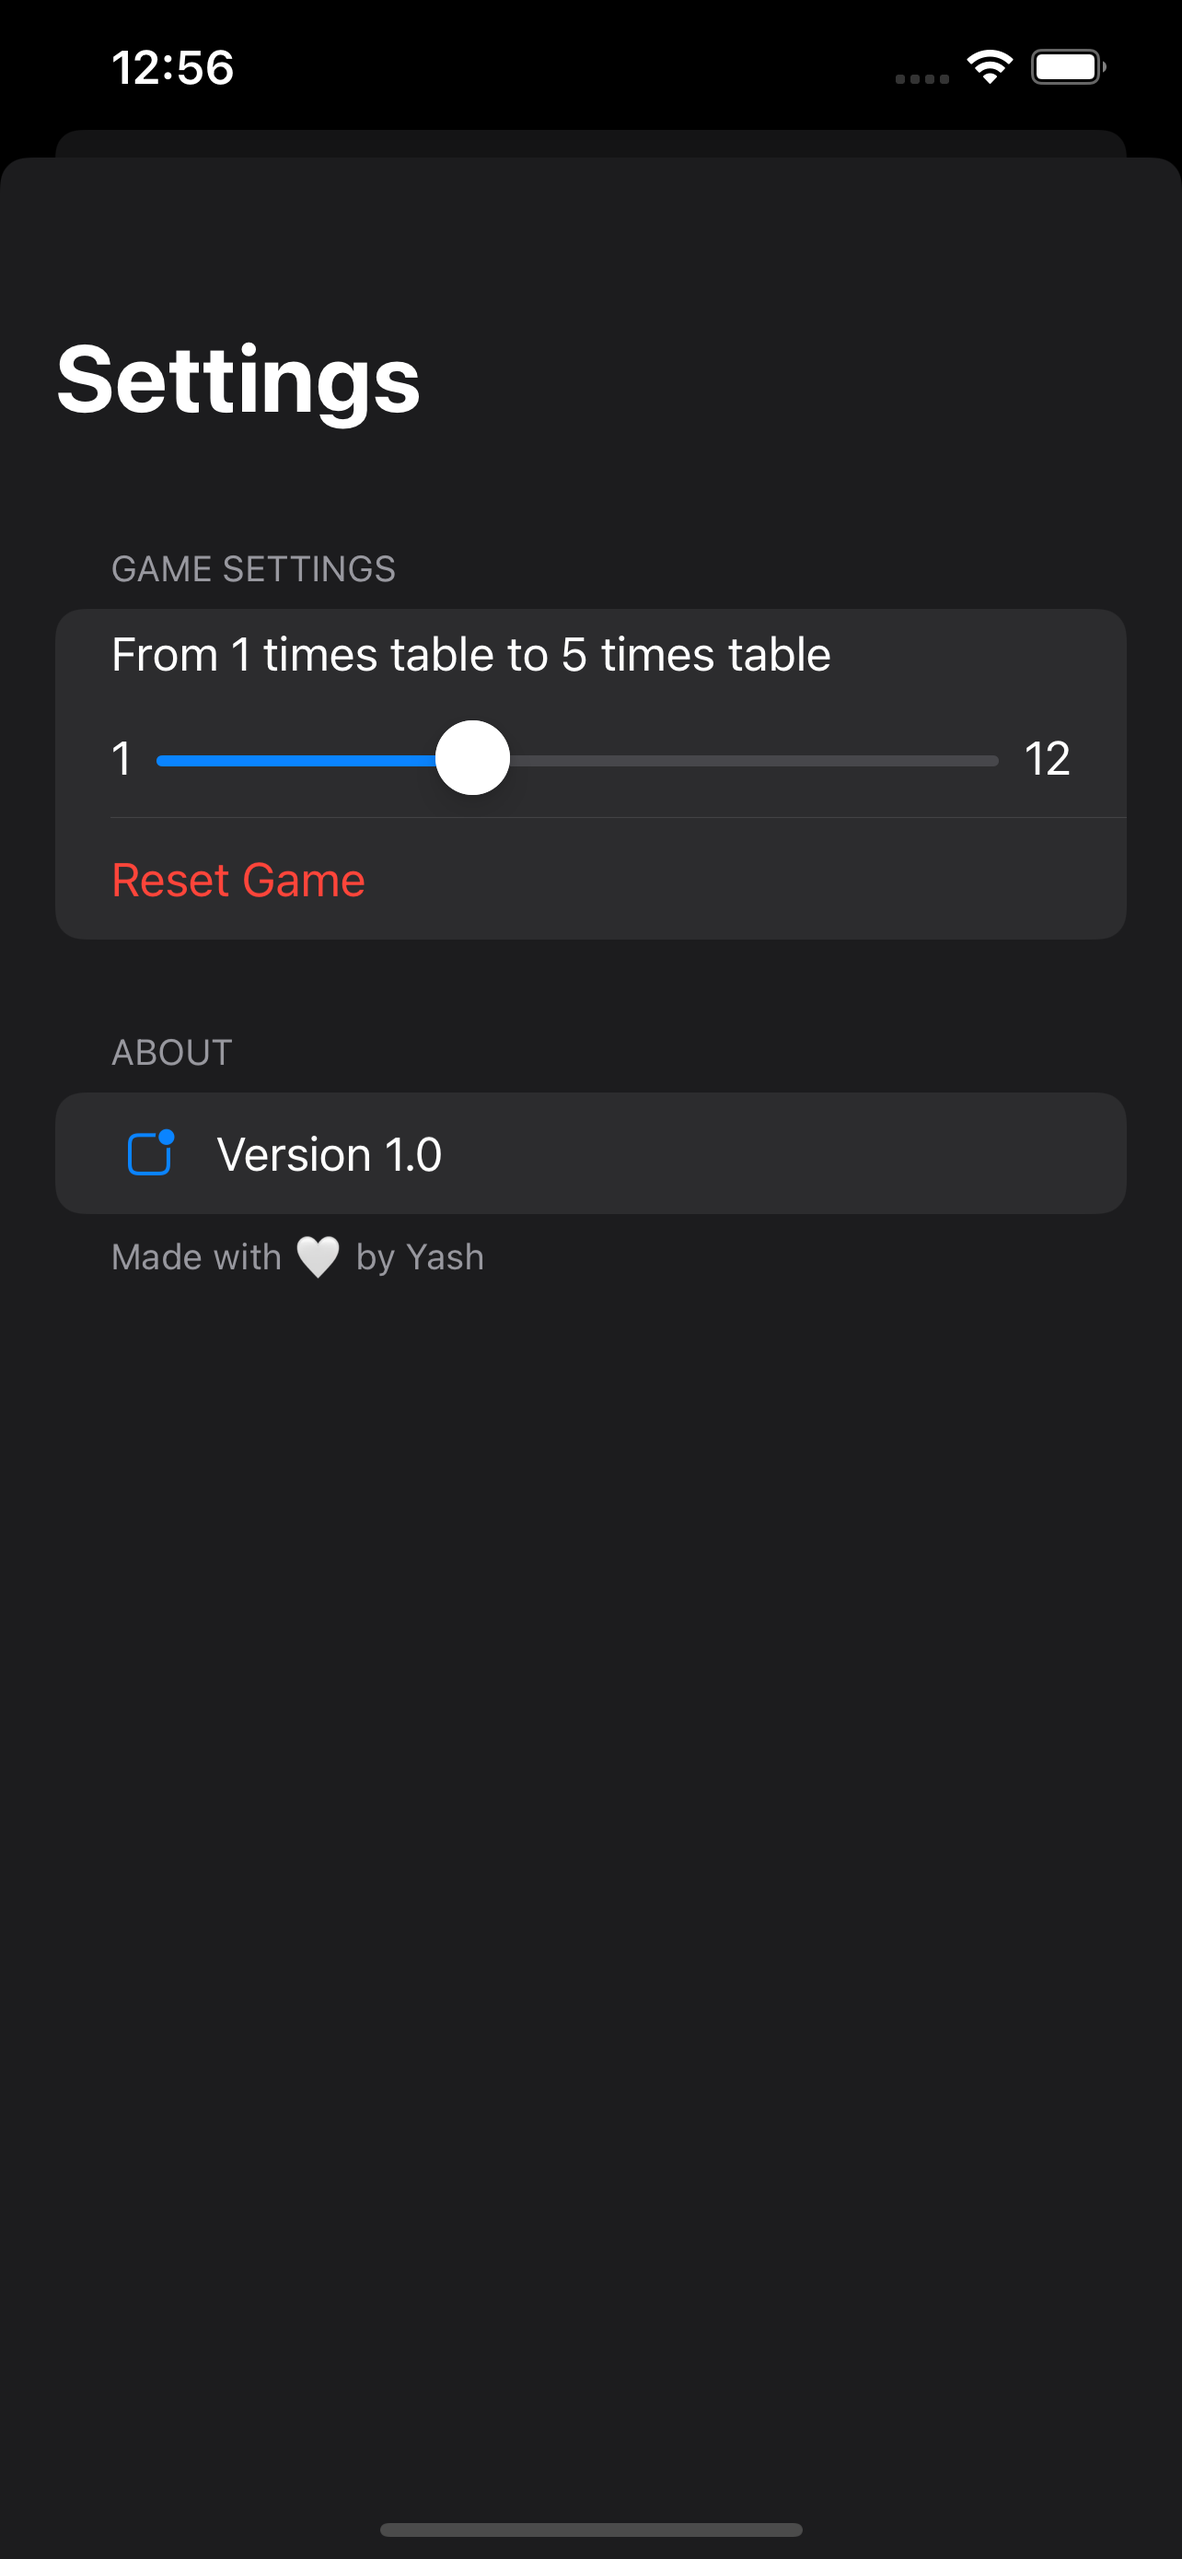
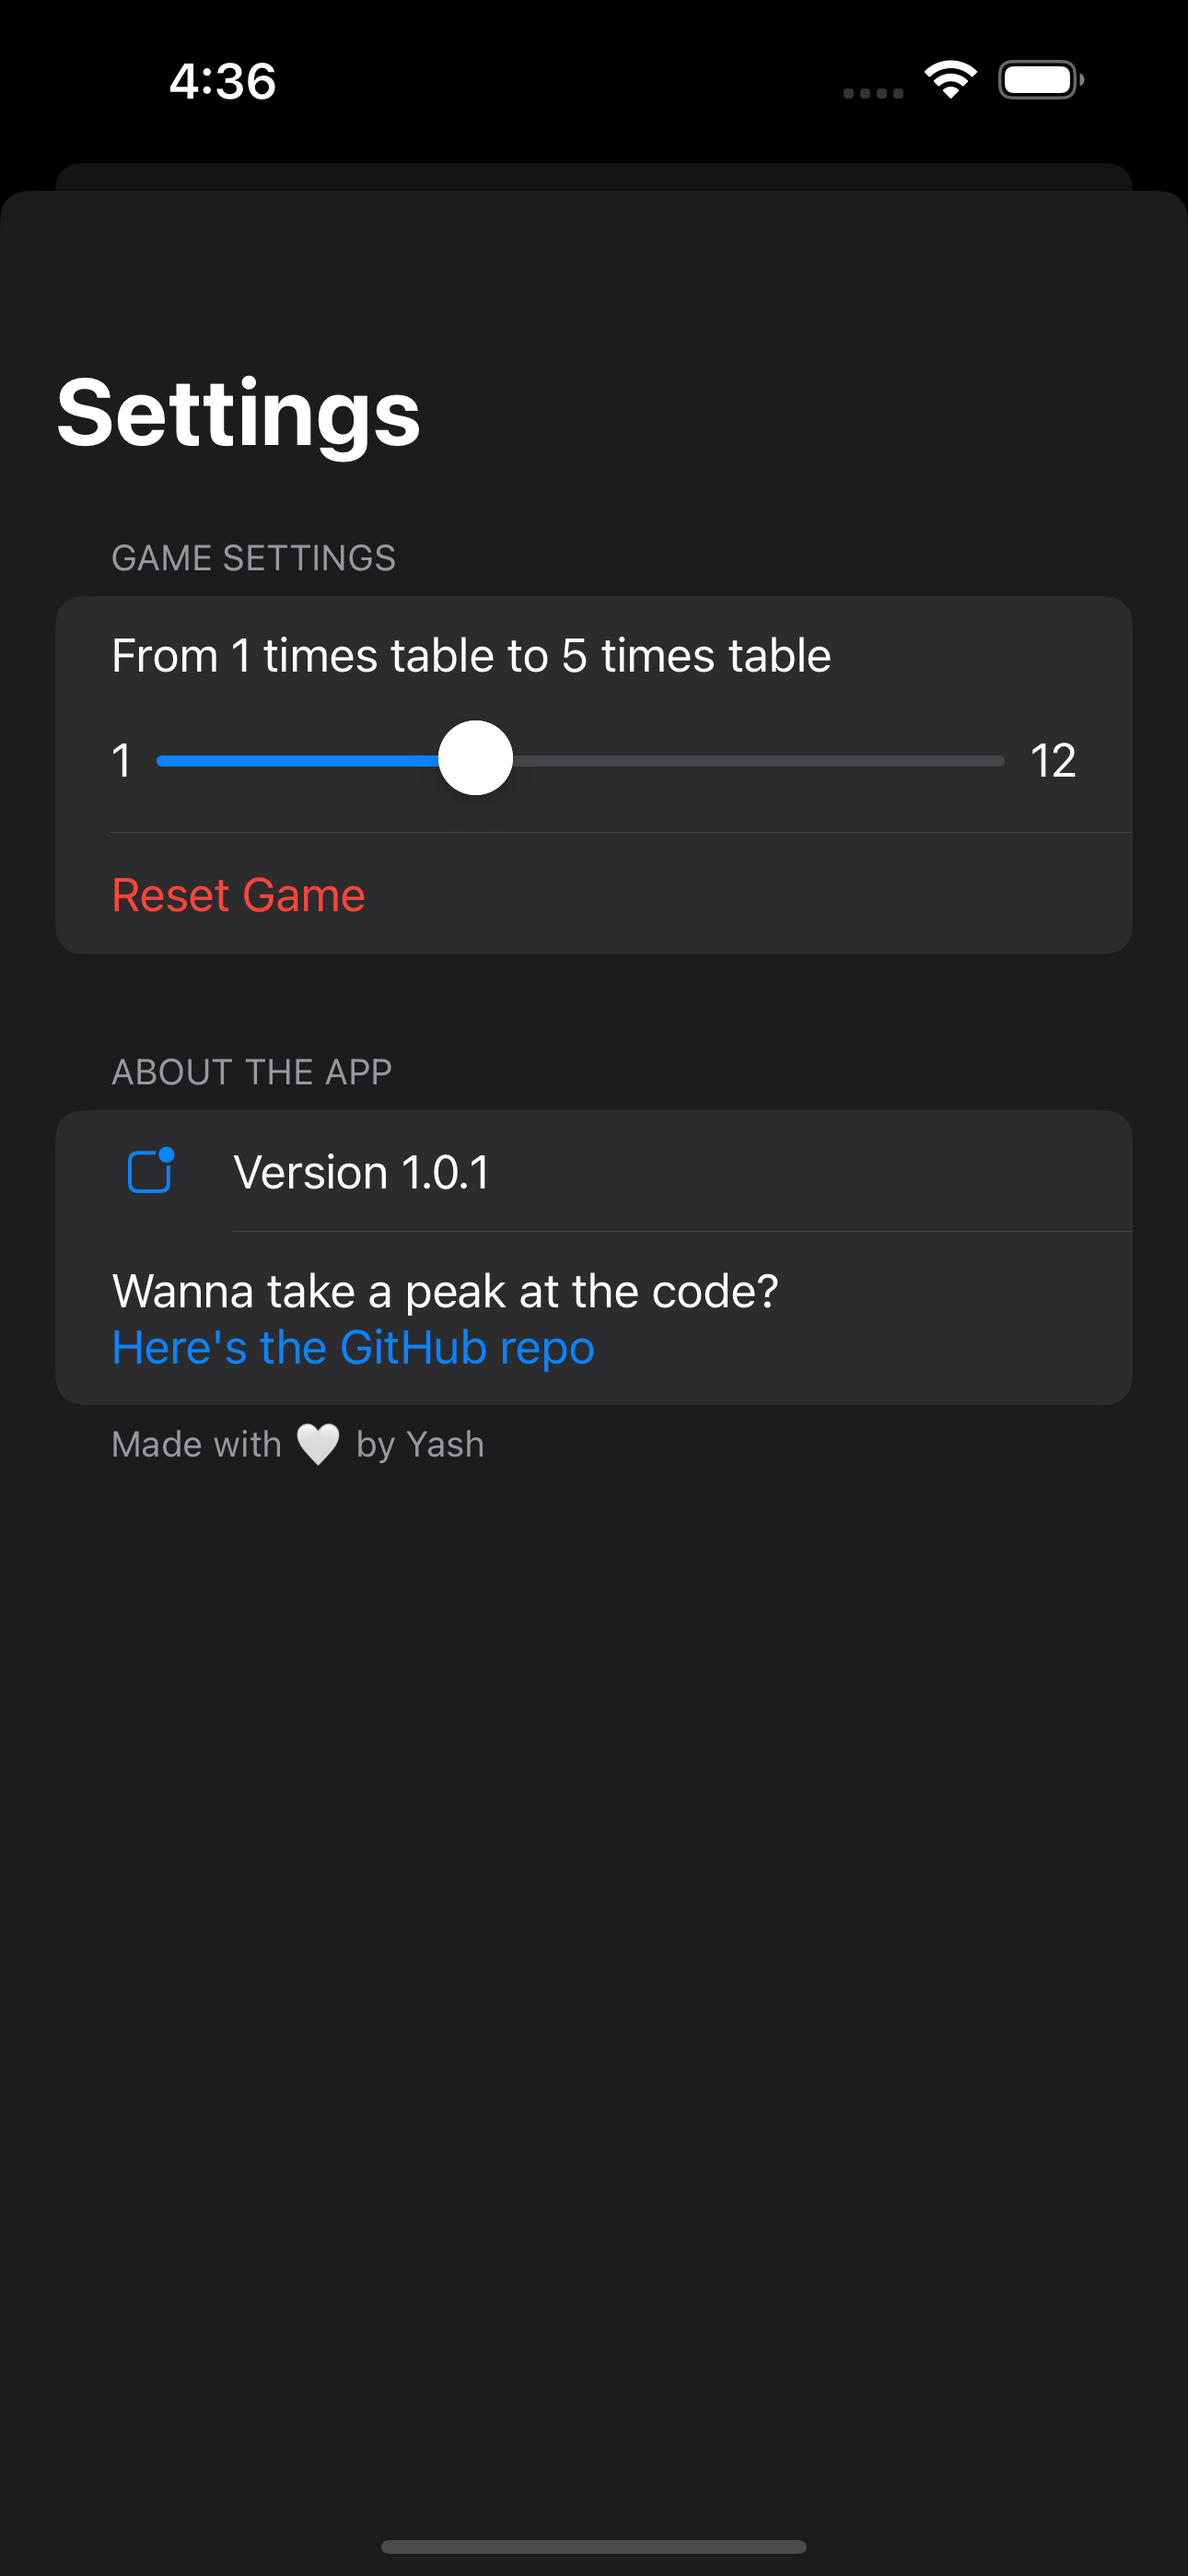
Replace `Constants.swift` with `Bundle+AppInfo.swift` to get App Version and Build Number for `SettingsView` and `AppReviewRequest.swift`

diff --git a/TimesTables/Screens/SettingsView.swift b/TimesTables/Screens/SettingsView.swift
@@ -8,49 +8,67 @@
 import SwiftUI
 
 struct SettingsView: View {
+	private let linksUrl = URL(string: "https://linktr.ee/YSBoomOfficial")!
+	private let repoURL = URL(string: "https://github.com/ysBoomOfficial/times-Tables/")!
+
 	// swiftlint:disable:next identifier_name
 	@ObservedObject var vm: TimesTablesViewModel
 
 	var body: some View {
 		NavigationView {
 			List {
-				Section {
-					VStack(alignment: .leading) {
-						Text("From 1 times table to \(vm.maxTimesTableNum, format: .number) times table")
-						Slider(
-							value: $vm.maxTimesTableNum,
-							in: 1...12, step: 1) {
-								Text("What range of times tables do you want to practice?")
-							} minimumValueLabel: {
-								Text(1, format: .number)
-							} maximumValueLabel: {
-								Text(12, format: .number)
-							} onEditingChanged: { _ in
-								vm.askQuestion()
-							}
-					}
+				gameSettingsSection
 
-					Button(
-						"Reset Game",
-						role: .destructive,
-						action: vm.reset
-					)
-				} header: {
-					Text("Game Settings")
-				}
-
-				acboutSection
+				aboutSection
 			}
 			.listStyle(.insetGrouped)
 			.navigationTitle("Settings")
 		}
 	}
 
-	private var acboutSection: some View {
+	private var gameSettingsSection: some View {
 		Section {
-			Label("Version \(Constants.appVersion)", systemImage: "app.badge")
+			VStack(alignment: .leading) {
+				Text("From 1 times table to \(vm.maxTimesTableNum, format: .number) times table")
+				Slider(
+					value: $vm.maxTimesTableNum,
+					in: 1...12, step: 1) {
+						Text("What range of times tables do you want to practice?")
+					} minimumValueLabel: {
+						Text(1, format: .number)
+					} maximumValueLabel: {
+						Text(12, format: .number)
+					} onEditingChanged: { _ in
+						vm.askQuestion()
+					}
+			}
+
+			Button(
+				"Reset Game",
+				role: .destructive,
+				action: vm.reset
+			)
 		} header: {
-			Text("About")
+			Text("Game Settings")
+		}
+	}
+
+	private var aboutSection: some View {
+		Section {
+			Label(
+				"Version \(Bundle.main.releaseVersionNumber!).\(Bundle.main.buildVersionNumber!)",
+				systemImage: "app.badge"
+			)
+
+			Link(destination: repoURL) {
+				VStack(alignment: .leading) {
+					Text("Wanna take a peak at the code? ")
+						.foregroundColor(.primary)
+					Text("Here's the GitHub repo")
+				}
+			}
+		} header: {
+			Text("About The App")
 		} footer: {
 			Text("Made with 🤍 by Yash")
 		}

diff --git a/TimesTables/Utils/AppReviewRequest.swift b/TimesTables/Utils/AppReviewRequest.swift
@@ -1,8 +1,8 @@
 //
 //  AppReviewRequest.swift
-//  TimesTables
+//  Rock Paper Scissors
 //
-//  Created by Yash Shah on 16/07/2022.
+//  Created by Yash Shah on 12/06/2022.
 //
 
 import SwiftUI
@@ -15,14 +15,15 @@ enum AppReviewRequest {
 
 	static func requestReviewIfNeeded() {
 		runsSinceLastRequest += 1
-		guard let appBuild = Bundle.main.object(forInfoDictionaryKey: "CFBundleVersion") as? String,
-			  let appVersion = Bundle.main.object(forInfoDictionaryKey: "CFBundleShortVersionString") as? String else { return }
+		guard let appVersion = Bundle.main.releaseVersionNumber, let appBuild = Bundle.main.buildVersionNumber else { return }
 
 		let currentVersion = "\(appVersion).\(appBuild)"
-#if DEBUG
+
+		#if DEBUG
 		print("Run Count: \(runsSinceLastRequest) Out Of Threshold - \(threshold)")
 		print("Version: \(currentVersion)")
-#endif
+		#endif
+
 		// Only present if new version
 		guard currentVersion != version else { runsSinceLastRequest = 0; return }
 		// Only present review if threshold has been met

diff --git a/TimesTables/Utils/Bundle+AppInfo.swift b/TimesTables/Utils/Bundle+AppInfo.swift
@@ -1,0 +1,20 @@
+//
+//  Bundle+AppInfo.swift
+//  Rock Paper Scissors
+//
+//  Created by Yash Shah on 03/10/2022.
+//
+
+import Foundation
+
+extension Bundle {
+	/// Retrieve the app version number from Bundle
+	var releaseVersionNumber: String? {
+		infoDictionary?["CFBundleShortVersionString"] as? String
+	}
+
+	/// Retrieve the build version number from Bundle
+	var buildVersionNumber: String? {
+		infoDictionary?["CFBundleVersion"] as? String
+	}
+}

diff --git a/README.md b/README.md
@@ -3,6 +3,6 @@
 Inspired by <a href='https://www.hackingwithswift.com/guide/ios-swiftui/3/3/challenge'>Day 35 Milestone Projects 4-6 Challenge</a> from <a href='https://www.hackingwithswift.com/'>Hacking With Swift</a>’s <a href='https://www.hackingwithswift.com/100/swiftui'>100 Days of SwiftUI</a>.
 
 ## App Screenshots
-| App Logo | Example Question | Example Question | App Settings |
-| --- | --- | --- | --- |
-| ![App Logo](https://github.com/YSBoomOfficial/Times-Tables/blob/main/TimesTables/Assets.xcassets/app-icon.imageset/app-icon.png) | ![First Launch](https://github.com/YSBoomOfficial/Times-Tables/blob/main/App%20Screenshots/FirstLaunch.png) | ![Playing Game](https://github.com/YSBoomOfficial/Times-Tables/blob/main/App%20Screenshots/PlayingGame.png) | ![Settings](https://github.com/YSBoomOfficial/Times-Tables/blob/main/App%20Screenshots/Settings.png) |
+| App Logo | Example Question | App Settings |
+| --- | --- | --- |
+| ![App Logo](https://github.com/YSBoomOfficial/Times-Tables/blob/main/TimesTables/Assets.xcassets/app-icon.imageset/app-icon.png) | ![First Launch](https://github.com/YSBoomOfficial/Times-Tables/blob/main/App%20Screenshots/PlayingGame.png) | ![Settings](https://github.com/YSBoomOfficial/Times-Tables/blob/main/App%20Screenshots/Settings.png) |
